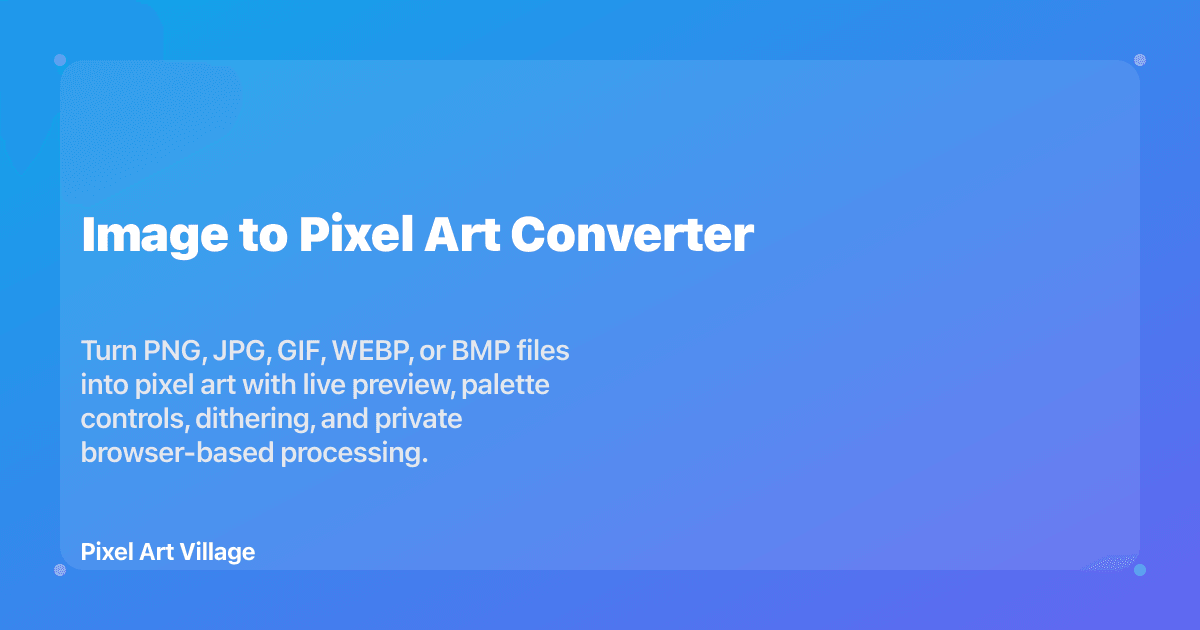
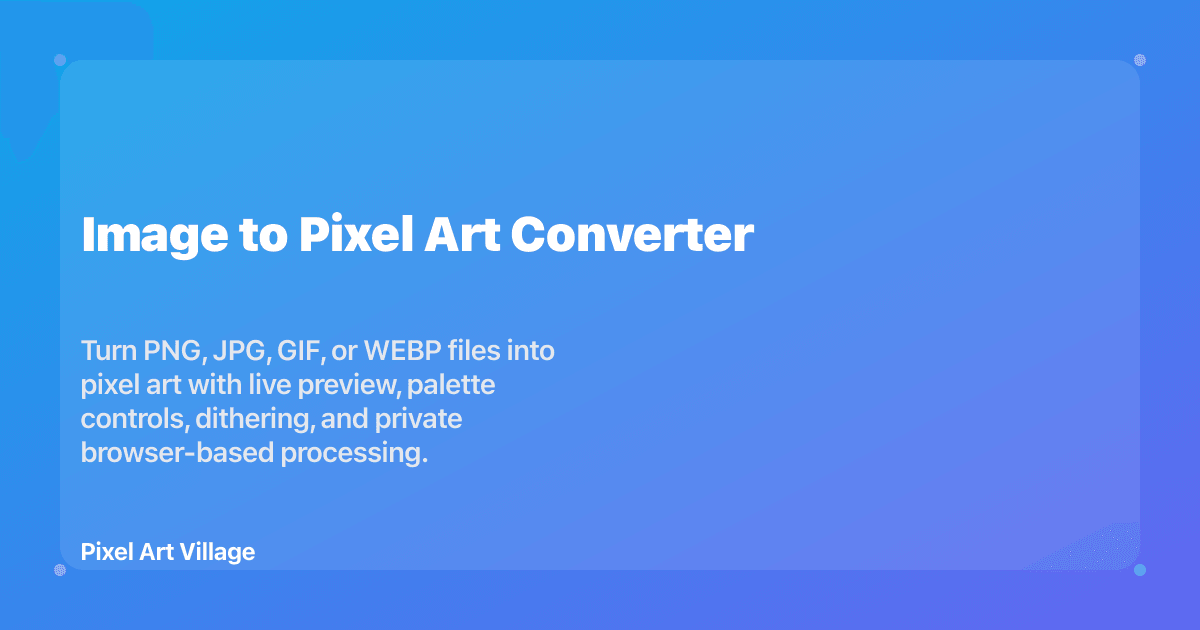
fix: retire bmp converter claims

Changed region(s): [[0.0617, 0.5429, 0.4933, 0.6333], [0.8942, 0.8746, 0.9558, 0.9048]]

diff --git a/scripts/test/unit-tests.js b/scripts/test/unit-tests.js
@@ -39,6 +39,14 @@ function assertLocaleStrings(section, requiredKeys) {
   }
 }
 
+function loadJson(filePath) {
+  return JSON.parse(fs.readFileSync(path.resolve(filePath), 'utf8'))
+}
+
+function escapeRegExp(value) {
+  return value.replace(/[.*+?^${}()|[\]\\]/g, '\\$&')
+}
+
 // inferAutoPaletteSize
 test('inferAutoPaletteSize parses trailing number', () => {
   assert.strictEqual(inferAutoPaletteSize('Custom 12'), 12)
@@ -135,6 +143,34 @@ test('palette import locale keys exist in every shipped locale', () => {
 test('support locale keys exist in every shipped locale', () => {
   assertLocaleStrings('footer', ['supportTitle', 'supportDesc'])
   assertLocaleStrings('contact', ['supportEyebrow', 'supportTitle', 'emailCta', 'emailHint'])
+})
+
+test('main converter copy only lists supported upload formats', () => {
+  const en = loadJson('public/locales/en/translation.json')
+  const pseoPages = loadJson('src/content/pseo-pages.en.json')
+  const mainConverter = pseoPages.find((page) => page.slug === 'image-to-pixel-art')
+
+  assert.ok(mainConverter, 'Missing image-to-pixel-art page config')
+  assert.ok(!/BMP/i.test(en?.home?.cards?.mainConverter?.description || ''), 'Home copy still promises BMP')
+  assert.ok(!/BMP/i.test(mainConverter.metaDescription || ''), 'pSEO meta description still promises BMP')
+  assert.ok(!/BMP/i.test(mainConverter.heroSubtitle || ''), 'pSEO hero subtitle still promises BMP')
+})
+
+test('retired BMP converter stays redirected to the main converter', () => {
+  const pseoPages = loadJson('src/content/pseo-pages.en.json')
+  const redirects = fs.readFileSync(path.resolve('public/_redirects'), 'utf8')
+  const redirectPairs = [
+    ['/converter/bmp-to-pixel-art', '/converter/image-to-pixel-art'],
+    ['/converter/bmp-to-pixel-art/', '/converter/image-to-pixel-art/'],
+    ['/es/converter/bmp-to-pixel-art/', '/es/converter/image-to-pixel-art/'],
+    ['/ja/converter/bmp-to-pixel-art/', '/ja/converter/image-to-pixel-art/'],
+  ]
+
+  assert.ok(!pseoPages.some((page) => page.slug === 'bmp-to-pixel-art'), 'BMP converter page is still in pSEO content')
+  for (const [from, to] of redirectPairs) {
+    const pattern = new RegExp(`^${escapeRegExp(from)}\\s+${escapeRegExp(to)}\\s+301$`, 'm')
+    assert.match(redirects, pattern, `Missing redirect: ${from} -> ${to}`)
+  }
 })
 
 // clamp255

diff --git a/src/components/Footer.jsx b/src/components/Footer.jsx
@@ -273,7 +273,6 @@ function Footer() {
                 <li><LocalizedLink to="/converter/jpg-to-pixel-art/" className="hover:text-white">{t('footer.links.jpg2pixel')}</LocalizedLink></li>
                 <li><LocalizedLink to="/converter/gif-to-pixel-art/" className="hover:text-white">{t('footer.links.gif2pixel')}</LocalizedLink></li>
                 <li><LocalizedLink to="/converter/webp-to-pixel-art/" className="hover:text-white">{t('footer.links.webp2pixel')}</LocalizedLink></li>
-                <li><LocalizedLink to="/converter/bmp-to-pixel-art/" className="hover:text-white">{t('footer.links.bmp2pixel')}</LocalizedLink></li>
               </ul>
             </div>
             <div>

diff --git a/src/components/PseoPage.jsx b/src/components/PseoPage.jsx
@@ -142,7 +142,7 @@ export default function PseoPage() {
     inLanguage: currentLocale || 'en',
     totalTime: 'PT2M',
     supply: [
-      { '@type': 'HowToSupply', name: 'Image file (PNG/JPG/WebP/GIF/BMP)' },
+      { '@type': 'HowToSupply', name: 'Image file (PNG/JPG/GIF/WEBP)' },
     ],
     tool: [
       { '@type': 'HowToTool', name: 'Pixel Art Village Converter' },
